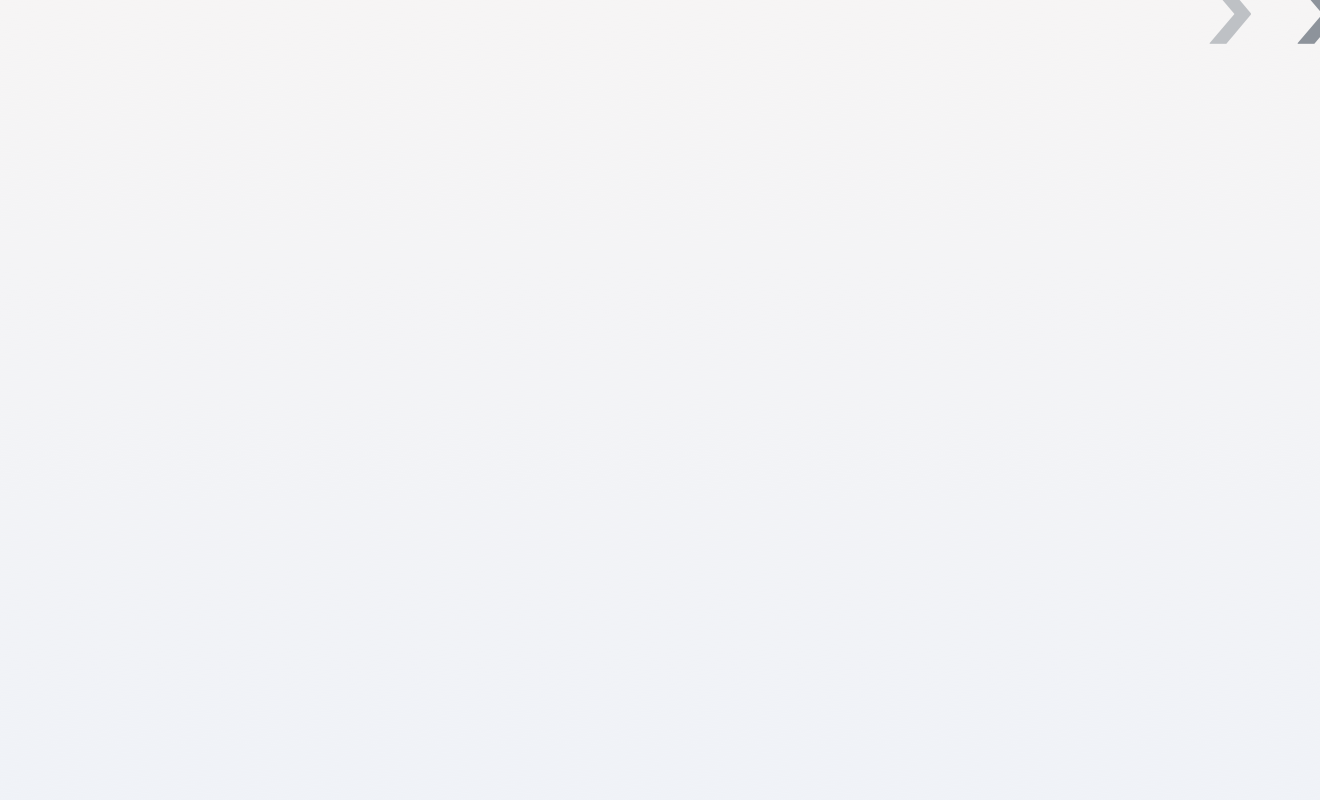
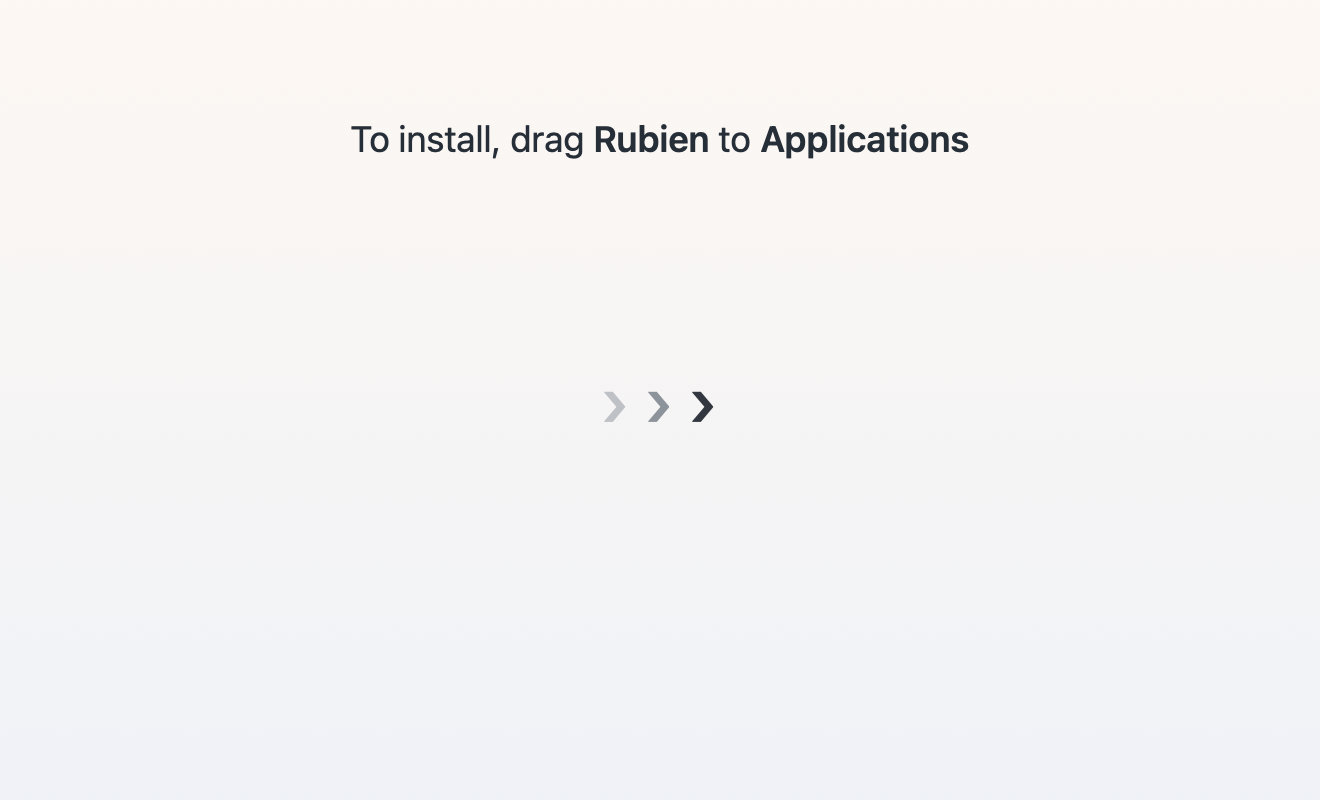
DMG background: drop redundant scaleBy that pushed art off-canvas
NSGraphicsContext on a bitmap rep whose pixelsWide is 2× its size.width
already maps logical points onto the 2× pixel canvas. The explicit
scaleBy(2,2) on top of that double-scaled, leaving only the top-left
logical quadrant inside the visible PNG.

diff --git a/scripts/render-dmg-background.swift b/scripts/render-dmg-background.swift
@@ -63,8 +63,11 @@ func render(to file: URL) throws {
     NSGraphicsContext.saveGraphicsState()
     defer { NSGraphicsContext.restoreGraphicsState() }
     NSGraphicsContext.current = NSGraphicsContext(bitmapImageRep: rep)
-    let ctx = NSGraphicsContext.current!.cgContext
-    ctx.scaleBy(x: scale, y: scale)
+    // No ctx.scaleBy here: NSGraphicsContext for a bitmap rep whose
+    // pixelsWide is bigger than size.width already maps logical points
+    // (the `width`/`height` constants below) onto the 2x pixel canvas.
+    // Calling scaleBy(2, 2) on top of that would double-scale, pushing
+    // everything except the top-left logical quadrant off-canvas.
 
     // 1. Light gradient backdrop (top: warm cream, bottom: cool gray-blue)
     //    — borrows the Dia.app reference palette feel without copying it.